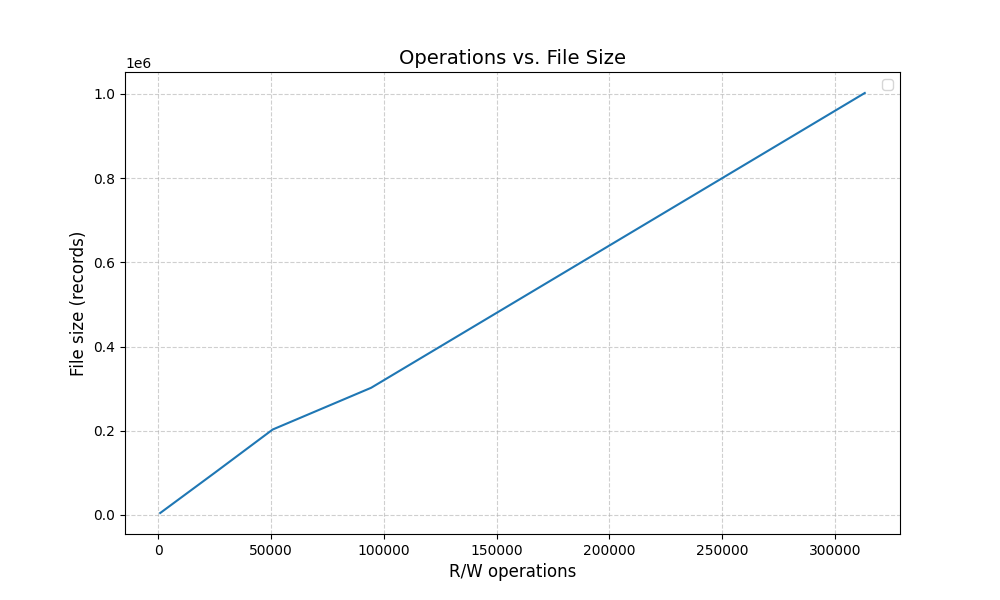
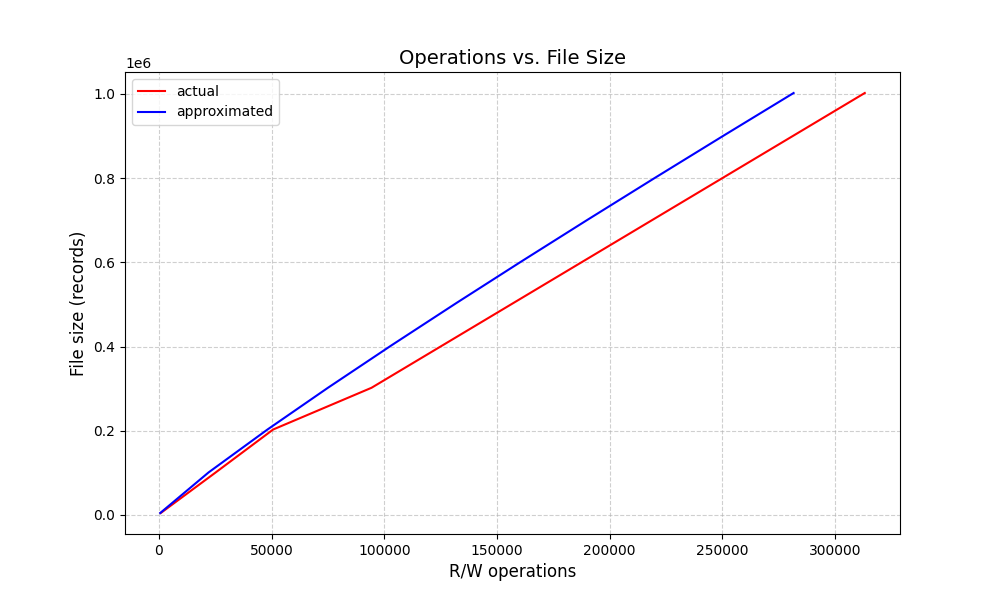
add approx size

diff --git a/graphs/main.py b/graphs/main.py
@@ -1,12 +1,21 @@
+import math
 import numpy as np
 import matplotlib.pyplot as plt
 
+
+def sort_params(file_name: str) -> tuple[int, int]:
+    with open(file_name) as f:
+        n, b = map(int, f.readline().split())
+
+    return n, b
+    
 
 def load_arrays(file_name: str) -> tuple[np.ndarray, np.ndarray]:
     try:
         fsizes, operations = np.loadtxt(
             file_name,
             delimiter=' ',
+            skiprows=1,
             usecols=(0, 1),
             unpack=True,
             dtype=int
@@ -18,10 +27,15 @@ def load_arrays(file_name: str) -> tuple[np.ndarray, np.ndarray]:
         return np.array([], dtype=int), np.array([], dtype=int)
     
 
-def plot_arrays(fsizes: np.ndarray, operations: np.ndarray) -> None:
+def approx_ops(n: int, b: int, fsizes: np.ndarray) -> np.ndarray:
+    return np.asarray([(2 * N / (b * math.log2(n))) * math.log2(N / b) for N in fsizes])
+
+
+def plot_arrays(fsizes: np.ndarray, operations: np.ndarray, approx: np.ndarray) -> None:
     plt.figure(figsize=(10, 6))
 
-    plt.plot(operations, fsizes)
+    plt.plot(operations, fsizes, color='r', label='actual')
+    plt.plot(approx, fsizes, color='b', label='approximated')
     plt.xlabel("R/W operations", fontsize=12)
     plt.ylabel("File size (records)", fontsize=12)
     plt.title("Operations vs. File Size", fontsize=14)
@@ -37,8 +51,11 @@ def main() -> None:
 
     file_name = 'sort.dat'
 
+    b, n = sort_params(file_name)
     fsizes, operations = load_arrays(file_name)
-    plot_arrays(fsizes, operations)
+    approx = approx_ops(n, b, fsizes)
+
+    plot_arrays(fsizes, operations, approx)
 
 
 if __name__ == '__main__':

diff --git a/tape-sort/main.cpp b/tape-sort/main.cpp
@@ -8,9 +8,8 @@ void test_sort();
 
 int main(void)
 {
-    //cli();
-    
-    test_sort();
+    cli();
+
     return 0;
 }
 
@@ -60,6 +59,10 @@ void test_merge()
 void test_sort()
 {
     const char *const file_path = "database-file";
+
+    // FILE *data_file = fopen("sort.dat", "a");
+    // fprintf(data_file, "%d %d\n", BLOCKING_FACTOR, BUFFER_COUNT);
+    // fclose(data_file);
 
     for (int i = 0; i < 11; i++)
     {

diff --git a/tape-sort/src/sort.cpp b/tape-sort/src/sort.cpp
@@ -15,7 +15,7 @@ void sort(const std::filesystem::path& file_path, bool verbose)
     RunInfo run_info;
     unsigned long long int rw;
     
-    if (verbose) file_handler.print();
+    if (verbose) { file_handler.print(); printf("\n"); }
 
     int sort_phases = create_runs(file_handler, buffers, run_info, verbose);
     int merge_phases = merge(file_handler, buffers, run_info, rw, verbose);
